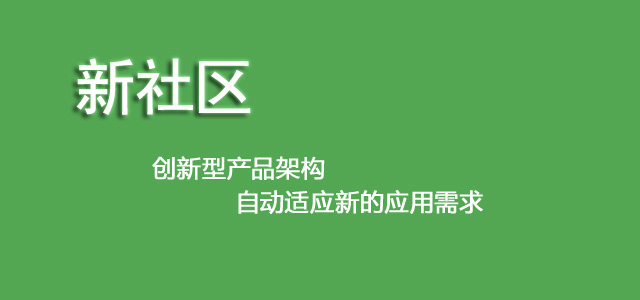
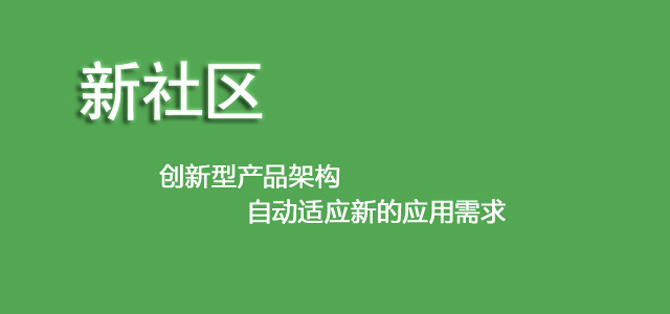
修复Cache_Extend一个警告，另外重新定义图片大小尺寸，以便于适应宽屏

diff --git a/upload/source/function/Cache_Extend.class.php b/upload/source/function/Cache_Extend.class.php
@@ -413,27 +413,31 @@ class Cache_Extend{
 			}
 		}
 
-		foreach($arrCacheStyledir as $nKey=>$sValue){
-			if(!in_array($sValue,$arrTheStyles)){
-				$sCurDeletedstyleDir=NEEDFORBUG_PATH.'/data/~runtime/style_/'.$sValue;
-				$arrCurDeletedstyleFiles=G::listDir($sCurDeletedstyleDir,true,true);
-				foreach($arrCurDeletedstyleFiles as $sCurDeletedstyleFile){
-					@unlink($sCurDeletedstyleFile);
+		if(is_array($arrCacheStyledir)){
+			foreach($arrCacheStyledir as $nKey=>$sValue){
+				if(!in_array($sValue,$arrTheStyles)){
+					$sCurDeletedstyleDir=NEEDFORBUG_PATH.'/data/~runtime/style_/'.$sValue;
+					$arrCurDeletedstyleFiles=G::listDir($sCurDeletedstyleDir,true,true);
+					foreach($arrCurDeletedstyleFiles as $sCurDeletedstyleFile){
+						@unlink($sCurDeletedstyleFile);
+					}
+					@rmdir($sCurDeletedstyleDir);
 				}
-				@rmdir($sCurDeletedstyleDir);
 			}
 		}
 
-		foreach($arrStyles as $arrStyle){
-			$arrStyle['_style_icons_']=$arrStyleIcons;
+		if(is_array($arrStyles)){
+			foreach($arrStyles as $arrStyle){
+				$arrStyle['_style_icons_']=$arrStyleIcons;
 
-			$sStyleIdPath=NEEDFORBUG_PATH.'/data/~runtime/style_/'.intval($arrStyle['style_id']);
-			if(!is_dir($sStyleIdPath)&& !G::makeDir($sStyleIdPath)){
-				Dyhb::E(Dyhb::L('无法写入缓存文件,请检查缓存目录 %s 的权限是否为0777','__COMMON_LANG__@Function/Cache_Extend',null,$sStyleIdPath));
+				$sStyleIdPath=NEEDFORBUG_PATH.'/data/~runtime/style_/'.intval($arrStyle['style_id']);
+				if(!is_dir($sStyleIdPath)&& !G::makeDir($sStyleIdPath)){
+					Dyhb::E(Dyhb::L('无法写入缓存文件,请检查缓存目录 %s 的权限是否为0777','__COMMON_LANG__@Function/Cache_Extend',null,$sStyleIdPath));
+				}
+				
+				self::writeToCache($sStyleIdPath.'/style.php',$arrStyle);
+				self::writetoCssCache($arrStyle,$sStyleIdPath);
 			}
-			
-			self::writeToCache($sStyleIdPath.'/style.php',$arrStyle);
-			self::writetoCssCache($arrStyle,$sStyleIdPath);
 		}
 	}
 
